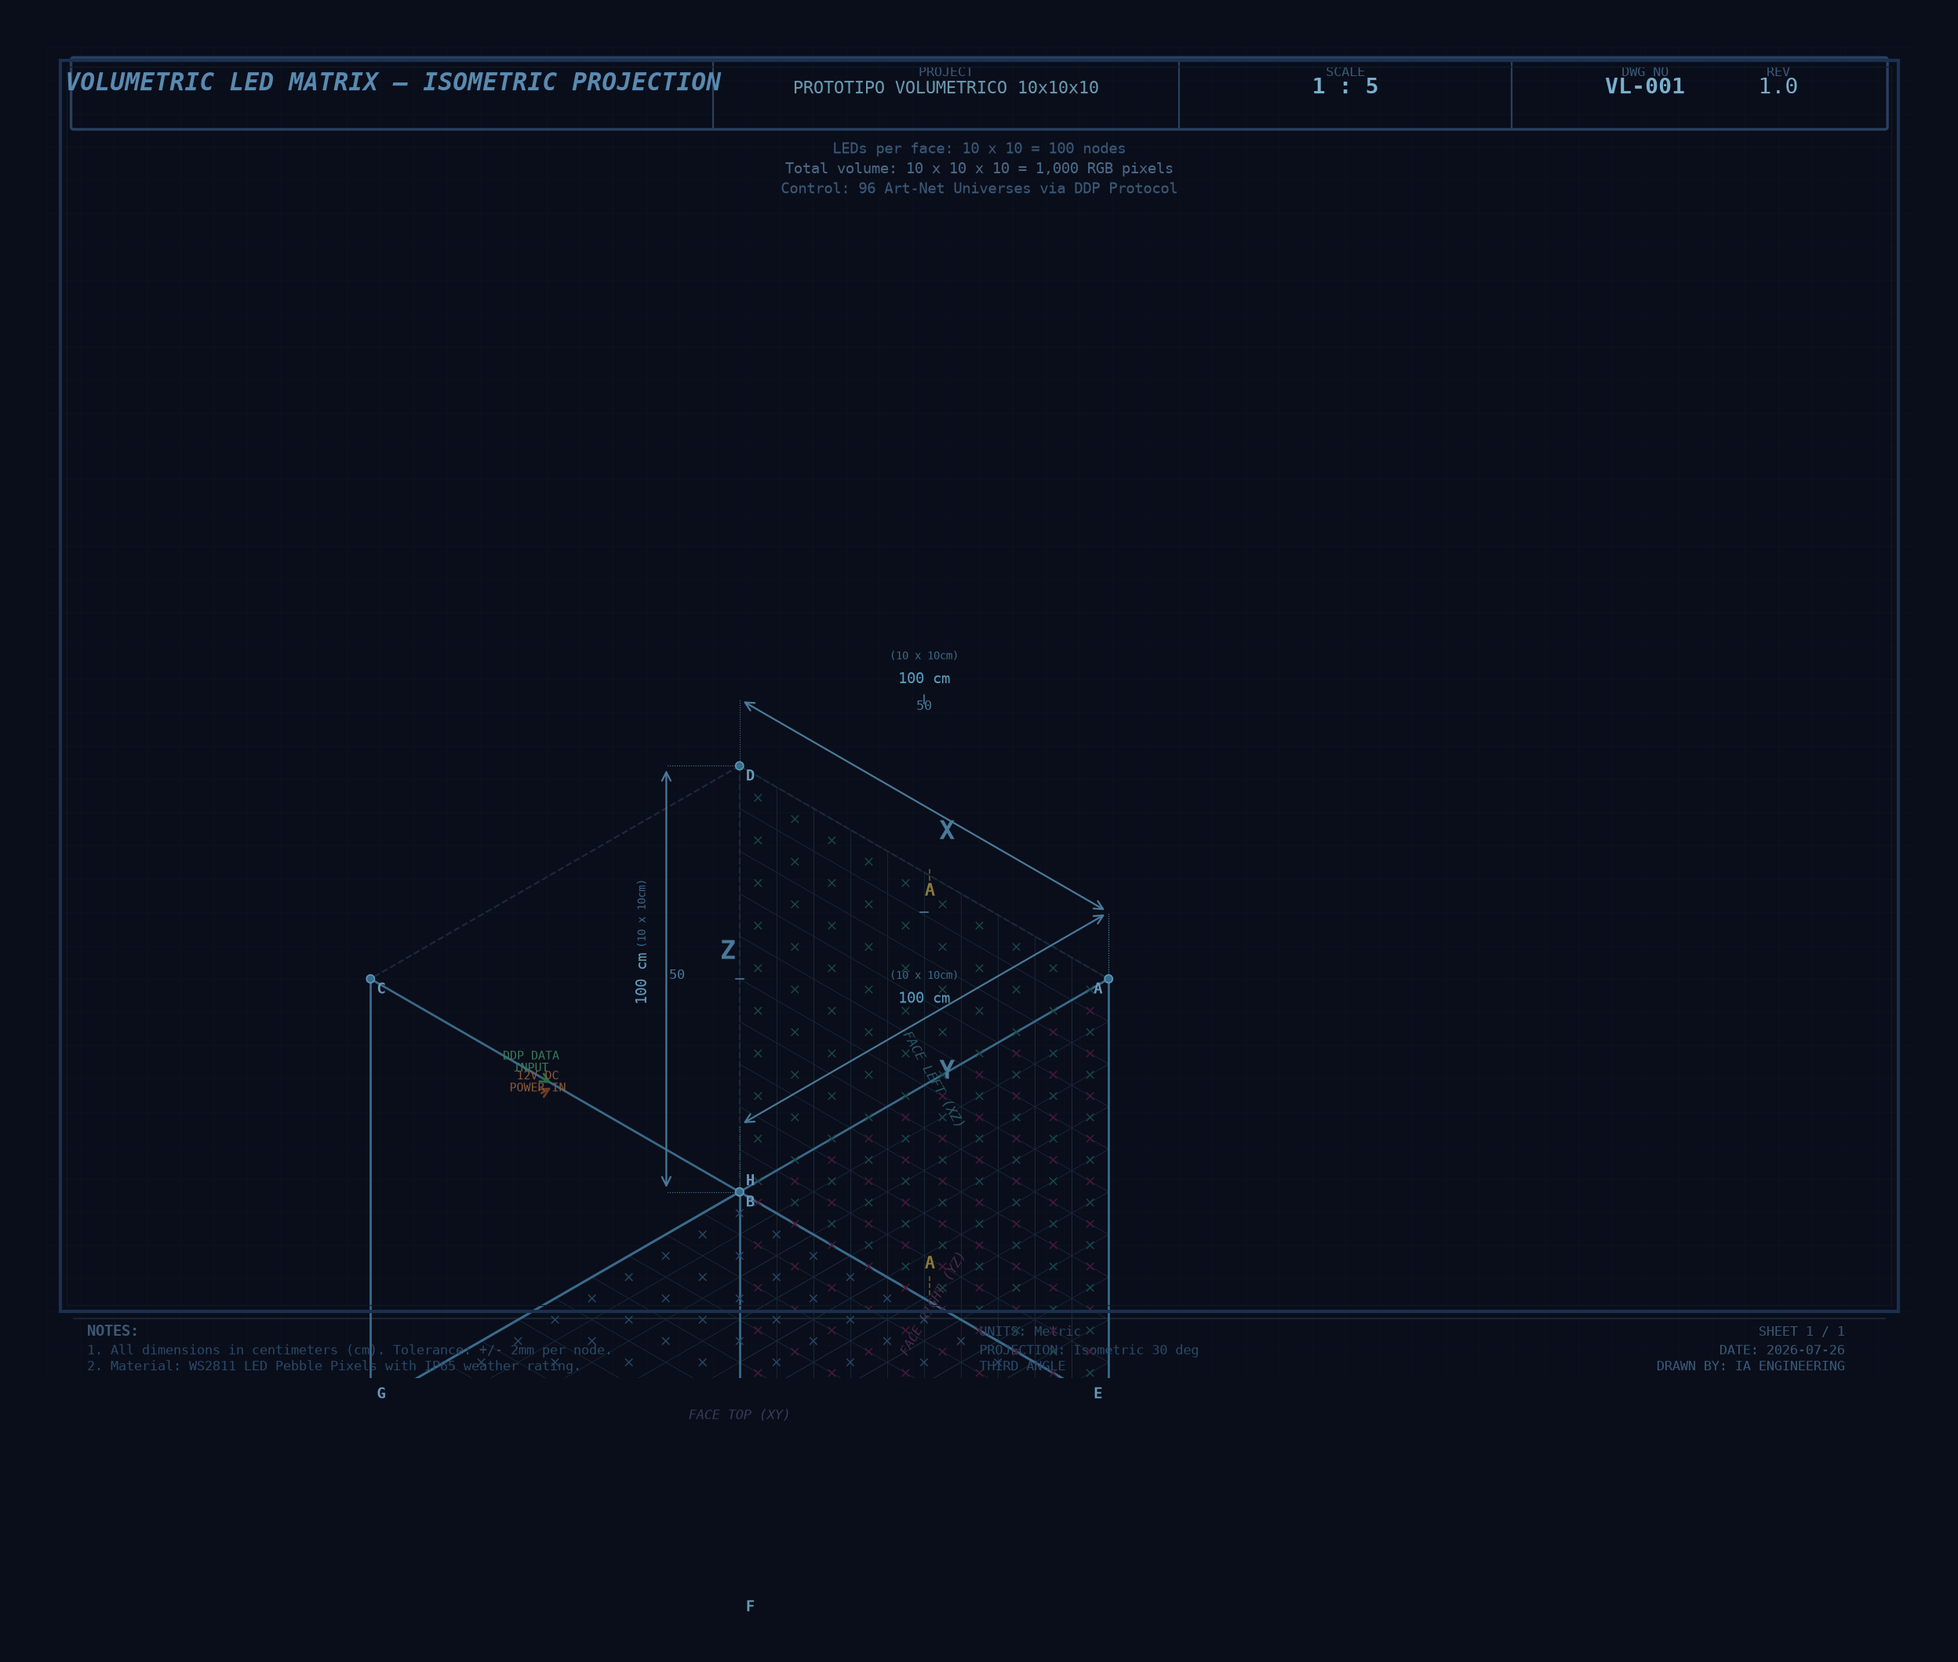
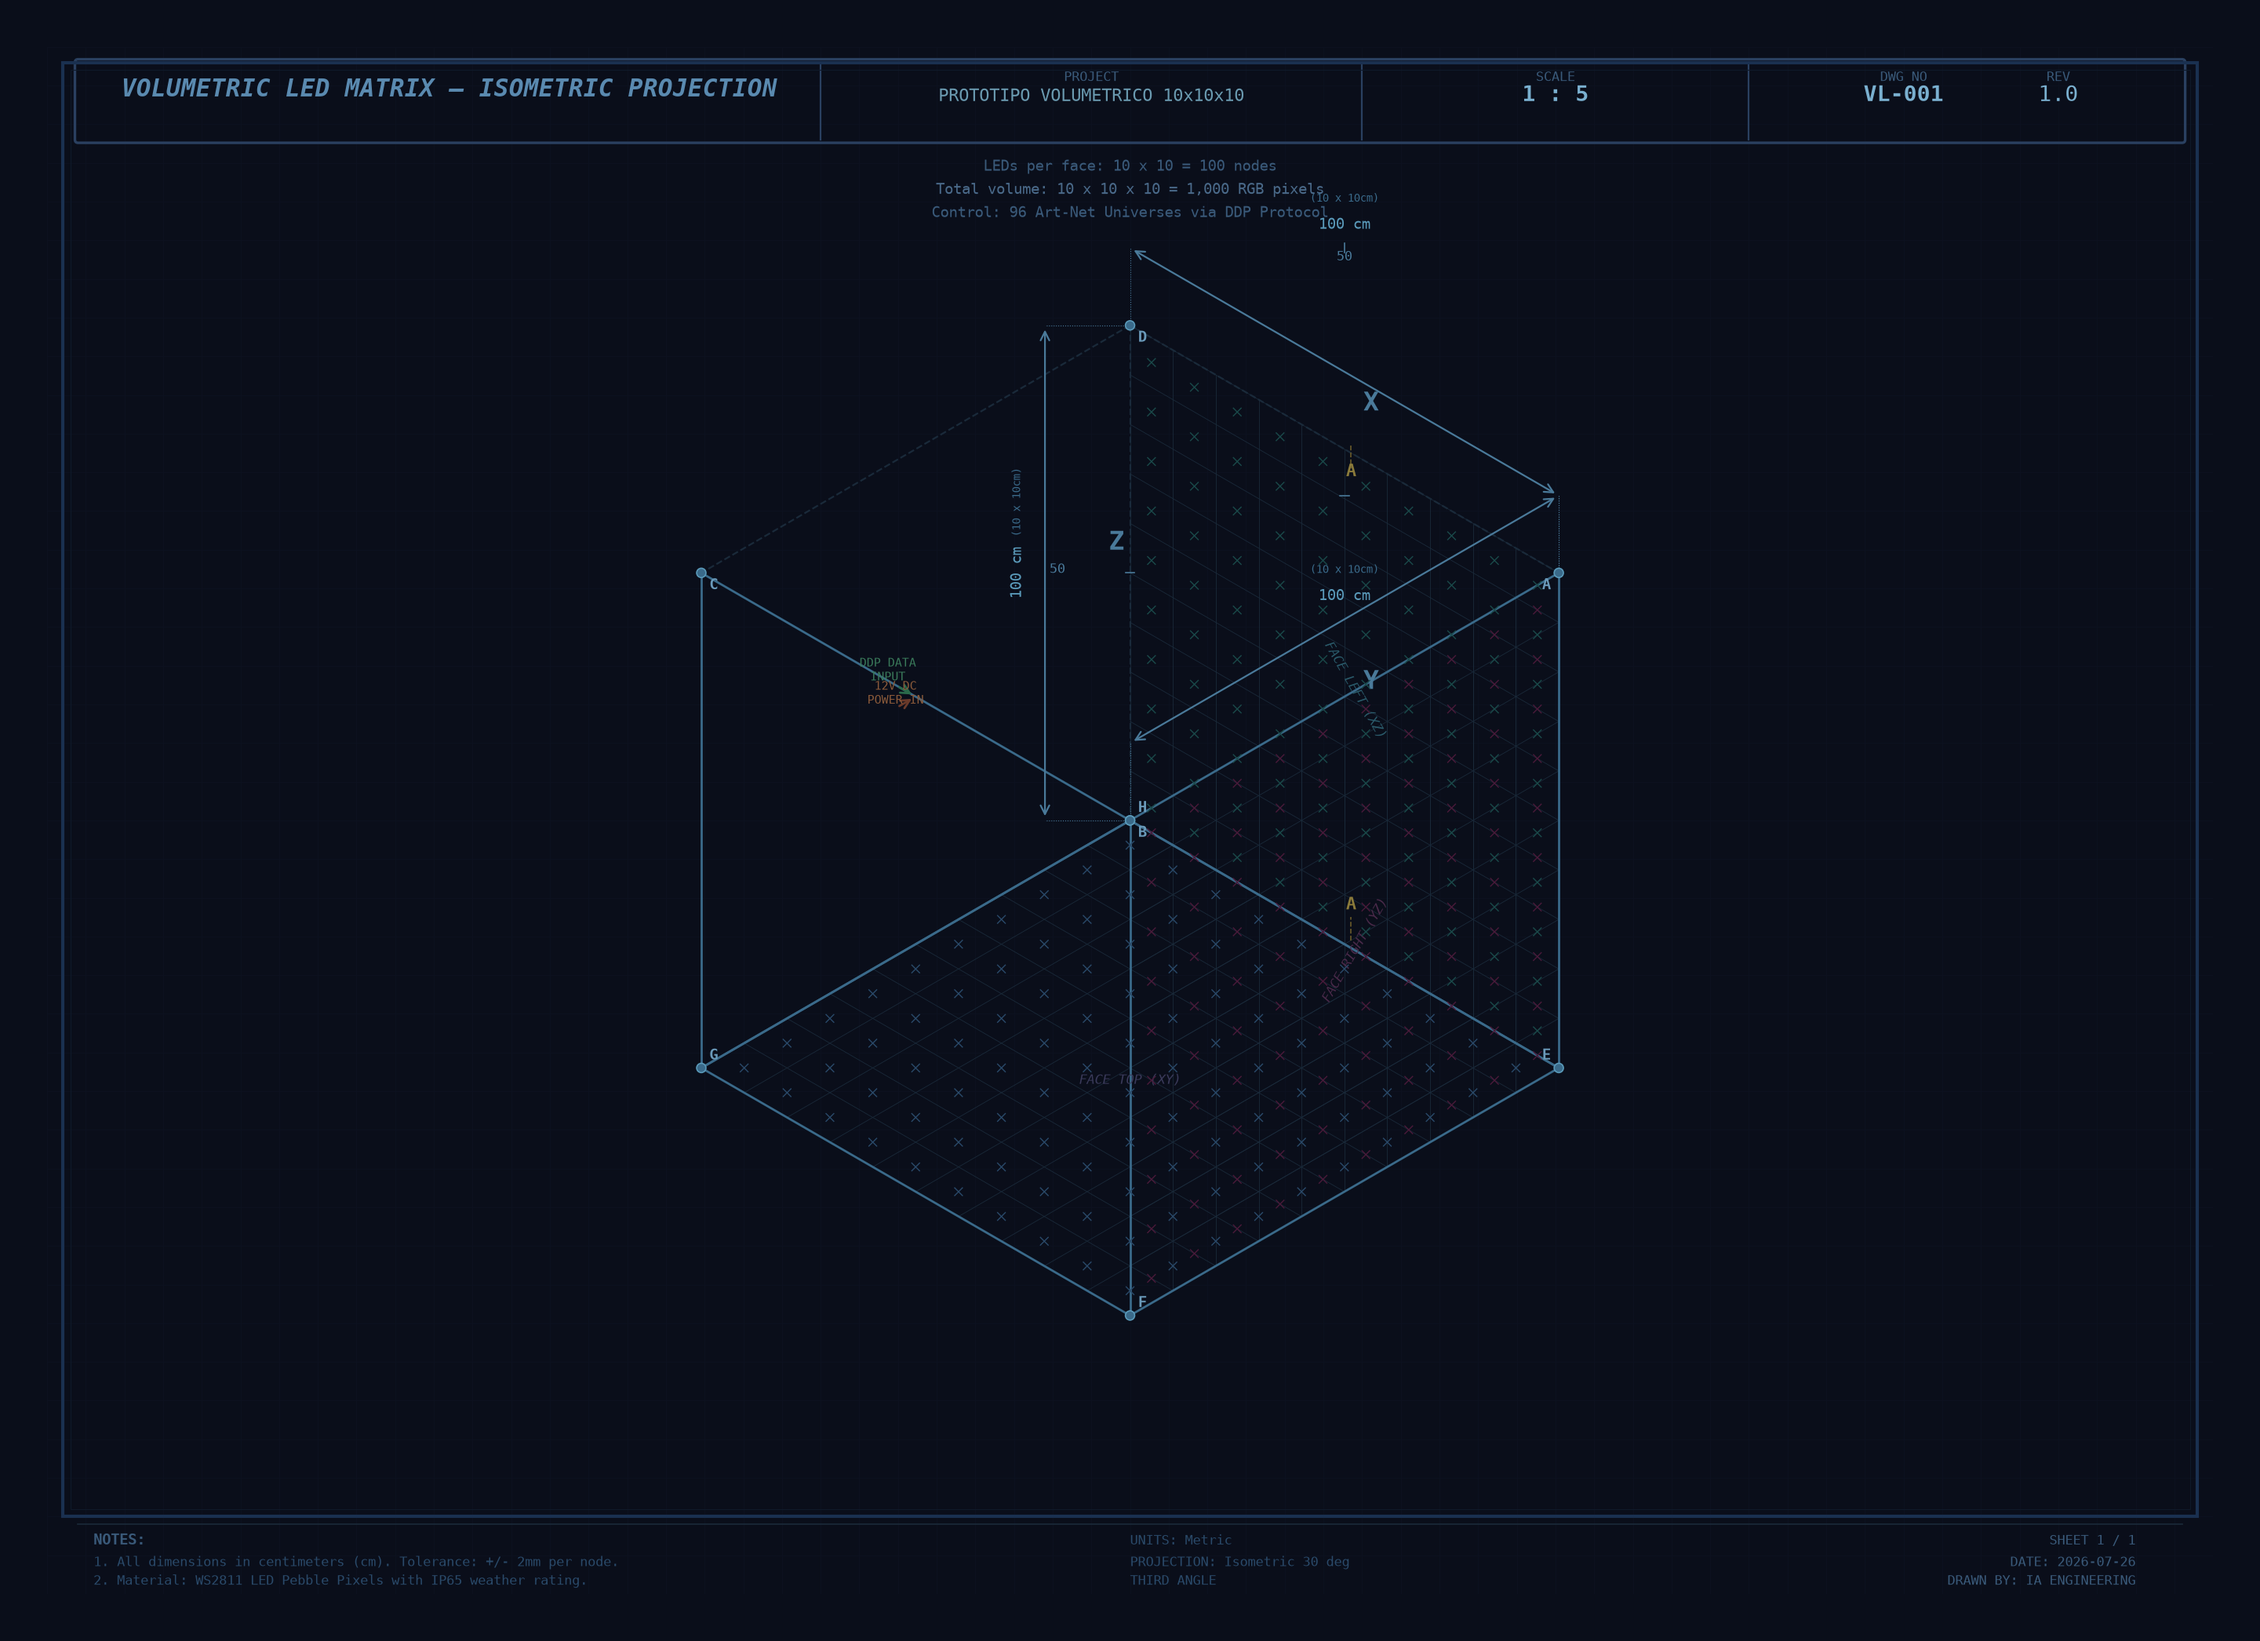
center cube in blueprint image

diff --git a/generate_blueprint.py b/generate_blueprint.py
@@ -41,7 +41,7 @@ ax.text(1300, 978, 'REV', fontsize=6, color='#3a5a7a', fontfamily='monospace', h
 ax.text(1300, 965, '1.0', fontsize=10, color='#7ab0d0', fontfamily='monospace', ha='center')
 
 # === ISOMETRIC PROJECTION FUNCTIONS ===
-cx, cy = 520, 460  # center of cube
+cx, cy = 700, 820  # center of cube
 edge = 320  # half-edge in isometric
 iso_angle = np.radians(30)
 
